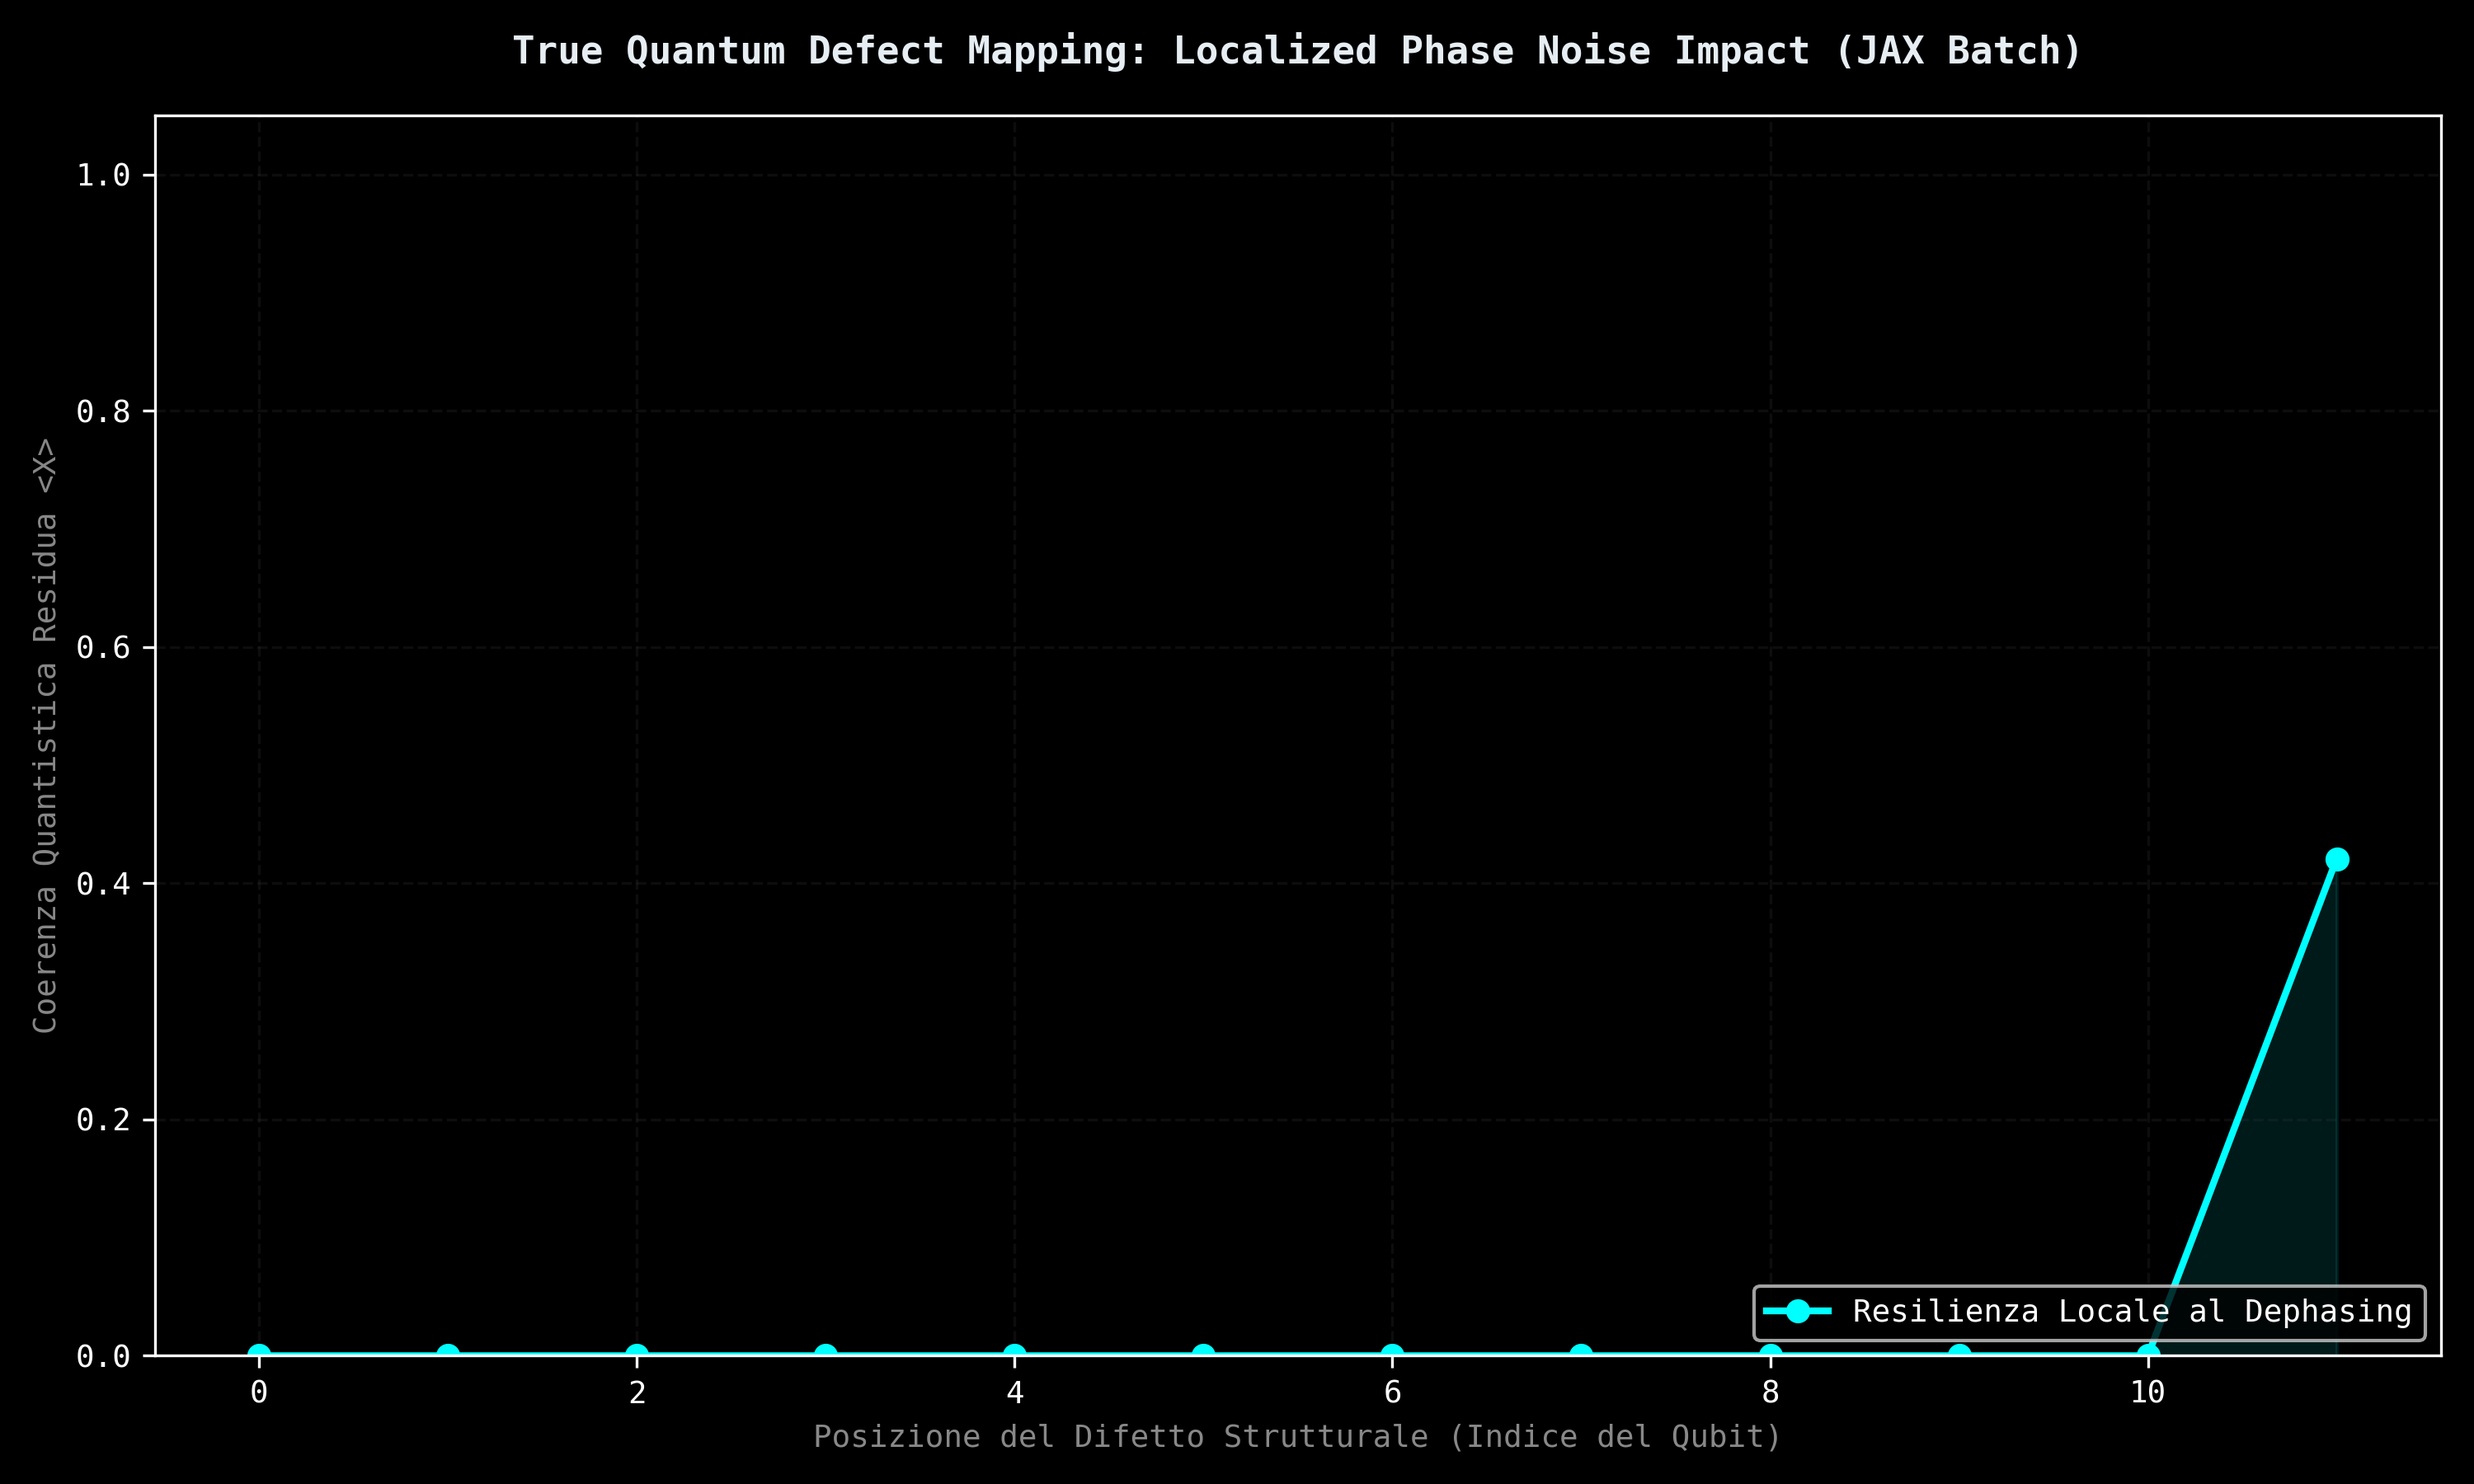
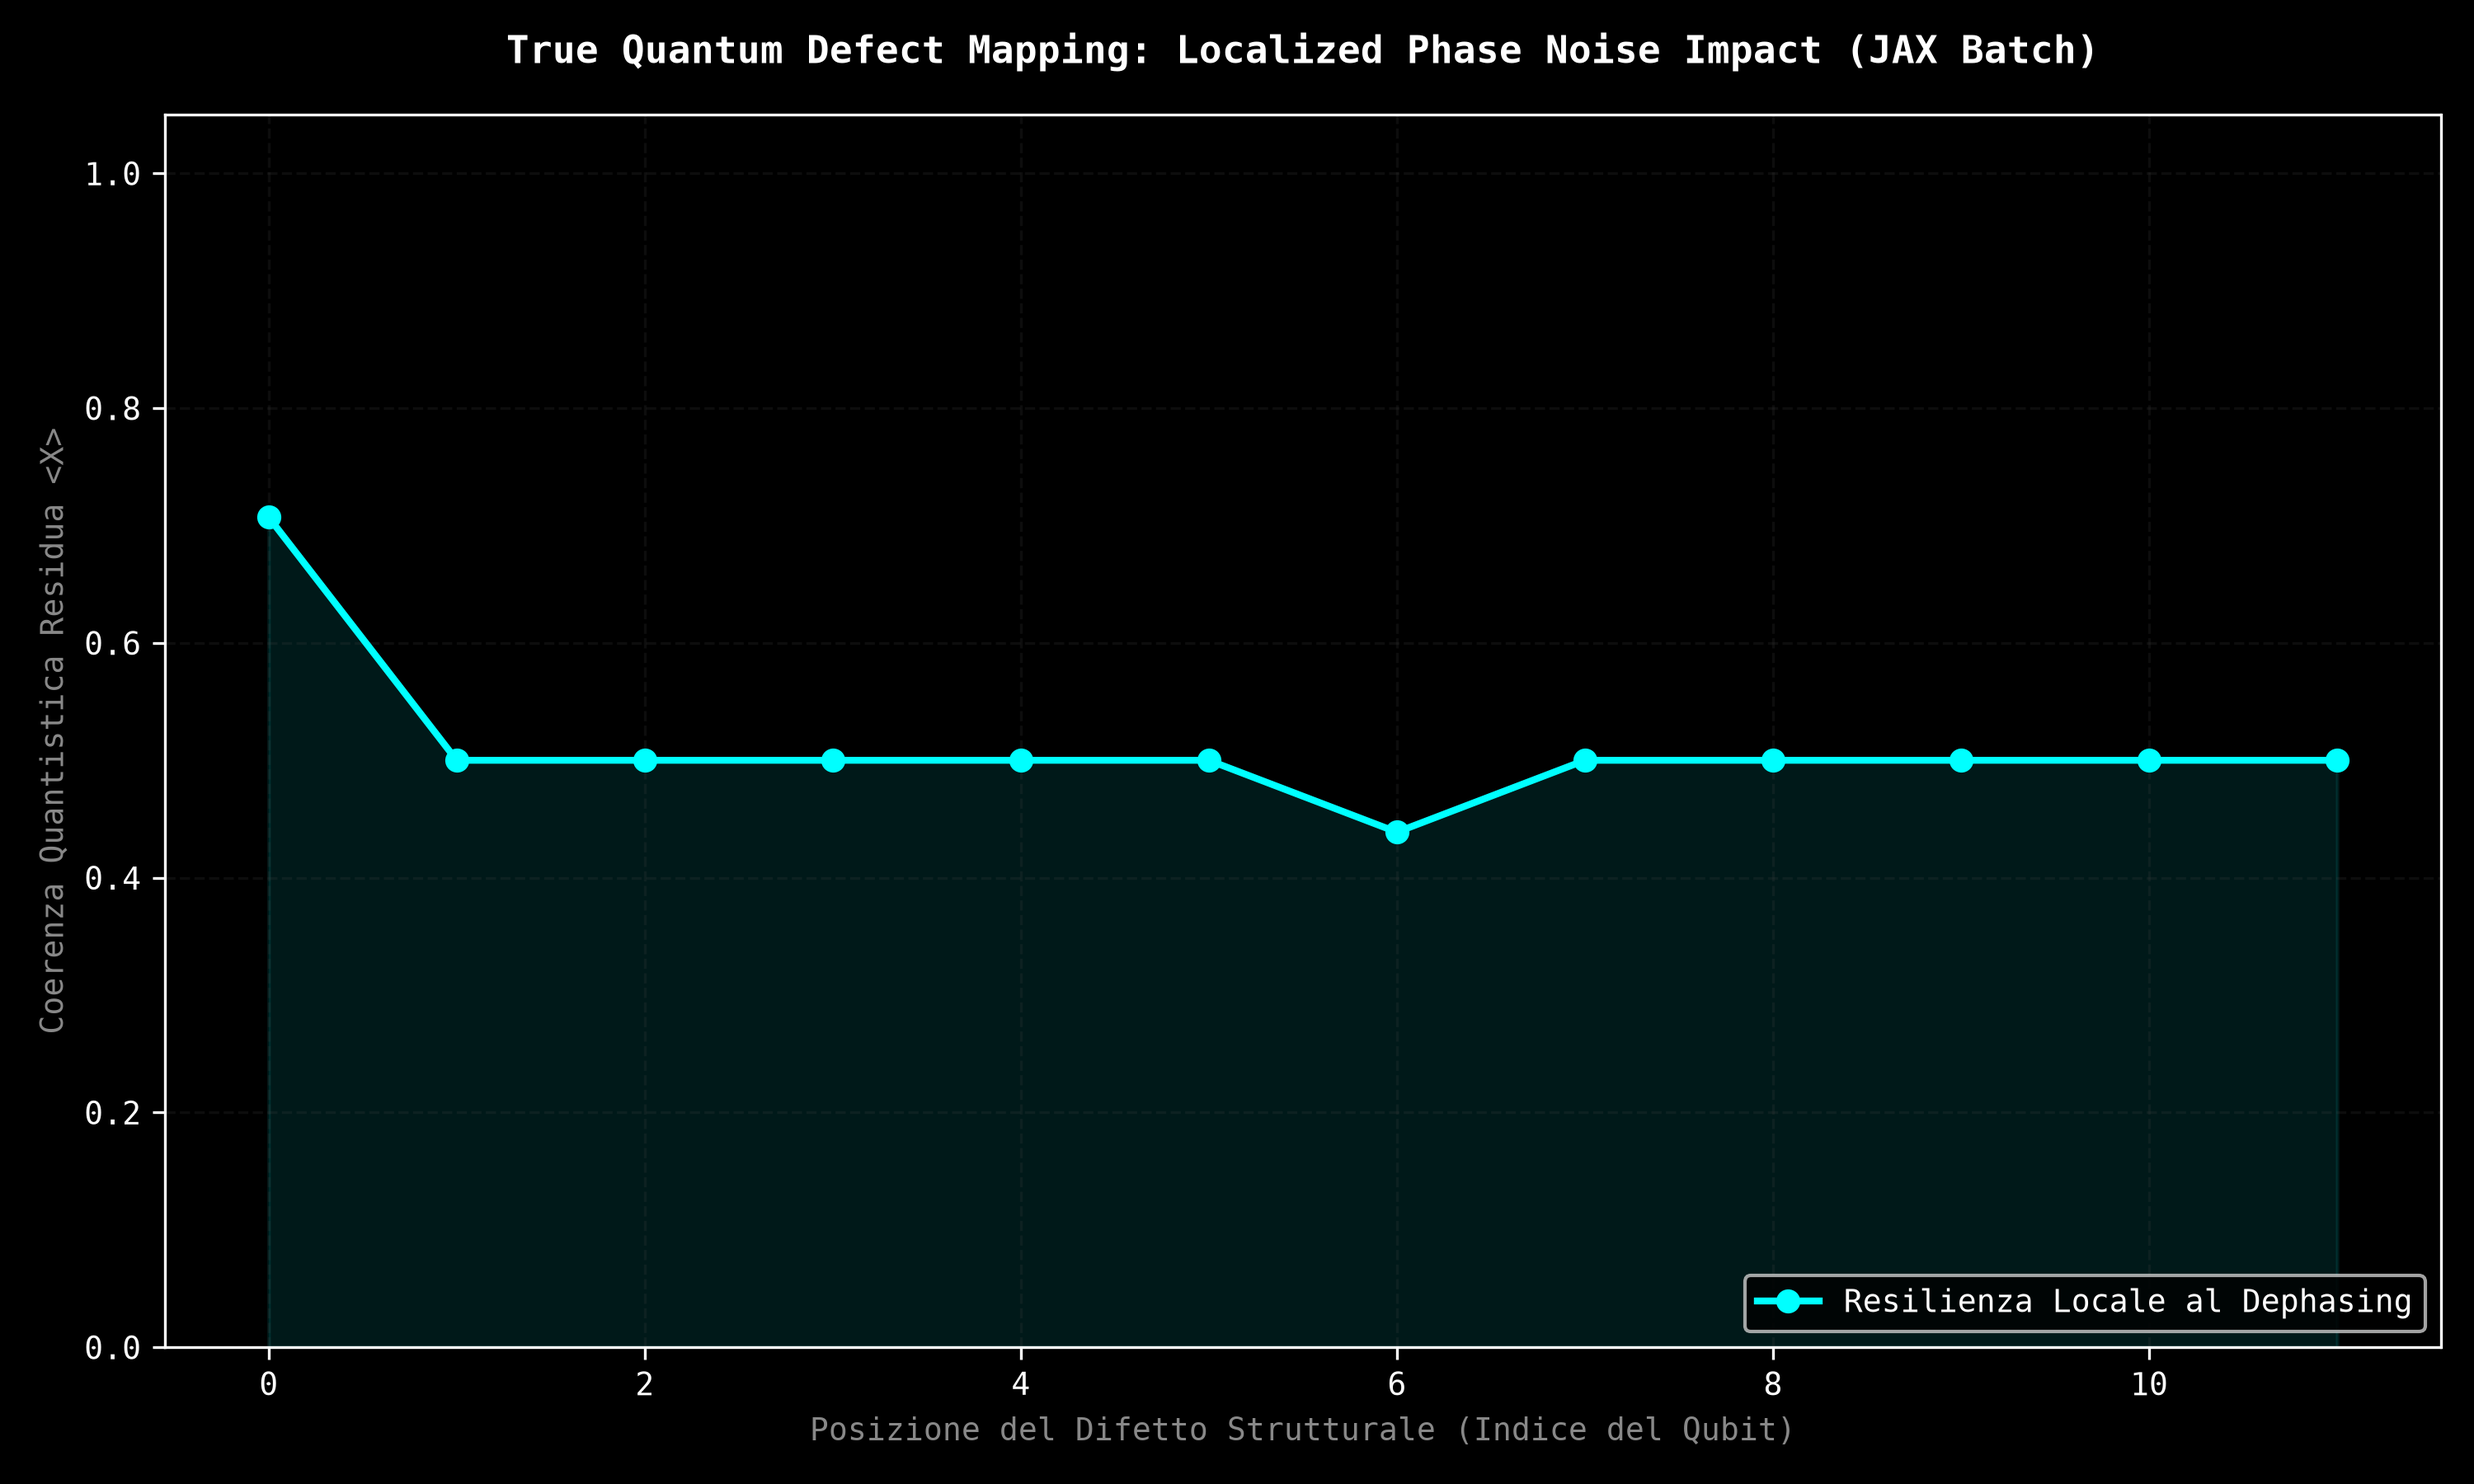
fix: quantum_defect_scanner.py fed run_parametric_batch_jit the wrong parameter columns
run_parametric_batch_jit treats every rotation gate (rx/ry/rz/p) as a
positional parameter slot, even when base_circuit passes a literal float
instead of a string placeholder -- the literal is silently discarded.
The scanner assumed RY(pi/4) stayed fixed while only RZ("batch_param_q")
varied, so the RZ columns actually landed on the RY slots and the true
RZ values ran out of bounds (JAX clips silently instead of raising).

Fixed by passing all 2*N_Q slots explicitly (constant RY columns +
varying RZ columns). Added tests/test_quantum_defect_scanner.py,
cross-checking the batch output against an independent single-circuit
run_circuit_jit_beast_mode reference. Regenerated mappa_difetti_silicio.csv/.png
with the corrected physics.

diff --git a/tests/test_quantum_defect_scanner.py b/tests/test_quantum_defect_scanner.py
@@ -1,0 +1,69 @@
+"""
+run_parametric_batch_jit positional-slot contract — regression guard
+----------------------------------------------------------------------
+Found while auditing the repo against dense-evolution 8.1.21: every
+rotation gate (rx/ry/rz/p) in base_circuit consumes a parameter_batch
+column in order of appearance, even when given a literal float instead
+of a string placeholder — the literal is silently discarded. This bit
+quantum_defect_scanner.py, which assumed RY(pi/4) literals stayed fixed
+while only the RZ("batch_param_q") gates varied; the RZ columns actually
+landed on the RY slots and ran out of bounds (JAX silently clips).
+
+1 test, mirrors quantum_defect_scanner.py's exact circuit shape at a
+small N_Q, cross-checked against an independent single-circuit reference
+via run_circuit_jit_beast_mode (ground truth, not the same code path).
+"""
+
+import numpy as np
+import jax
+import jax.numpy as jnp
+import dense_evolution as de
+
+jax.config.update("jax_enable_x64", True)
+
+N_Q = 4
+RY_ANGLE = np.pi / 4
+ATOL = 1e-10
+
+
+def _build_base_ops():
+    ops = [['ry', q, float(RY_ANGLE)] for q in range(N_Q)]
+    ops += [['rz', q, f"batch_param_{q}"] for q in range(N_Q)]
+    ops += [['cx', q, q + 1] for q in range(N_Q - 1)]
+    return ops
+
+
+def _reference_statevector(rz_angles: np.ndarray) -> np.ndarray:
+    """Independent ground truth: single-circuit run with literal RZ angles."""
+    ops = [['ry', q, float(RY_ANGLE)] for q in range(N_Q)]
+    ops += [['rz', q, float(rz_angles[q])] for q in range(N_Q)]
+    ops += [['cx', q, q + 1] for q in range(N_Q - 1)]
+    sim = de.DenseSVSimulator(n_qubits=N_Q, use_gpu=False, use_float32=False)
+    sim.set_initial_state()
+    sim.run_circuit_jit_beast_mode(ops)
+    return np.asarray(sim.get_statevector())
+
+
+def test_batch_positional_slots_ry_fixed_rz_varying():
+    """Every row of parameter_batch must fill ALL 2*N_Q rotation slots
+    (N_Q constant RY columns + N_Q varying RZ columns) — not just the
+    ones written as string placeholders in base_circuit."""
+    sim = de.DenseSVSimulator(n_qubits=N_Q, use_gpu=False, use_float32=False)
+    base_ops = _build_base_ops()
+
+    grid = np.zeros((N_Q, 2 * N_Q), dtype=np.float64)
+    grid[:, :N_Q] = RY_ANGLE
+    for q in range(N_Q):
+        grid[q, N_Q + q] = 0.5
+
+    batch = sim.run_parametric_batch_jit(base_ops, jnp.array(grid, dtype=jnp.float64))
+    assert batch.shape == (N_Q, 1 << N_Q)
+
+    for row in range(N_Q):
+        rz_angles = np.zeros(N_Q)
+        rz_angles[row] = 0.5
+        expected = _reference_statevector(rz_angles)
+        got = np.asarray(batch[row])
+        assert np.max(np.abs(got - expected)) < ATOL, (
+            f"row {row}: batch output diverges from independent single-circuit reference"
+        )

diff --git a/quantum_defect_scanner.py b/quantum_defect_scanner.py
@@ -26,9 +26,16 @@ for q in range(N_Q):
 for q in range(N_Q - 1):
     base_ops.append(['cx', q, q + 1])  
 
-griglia_parametri = np.zeros((N_Q, N_Q), dtype=np.float64)
+# run_parametric_batch_jit tratta OGNI gate di rotazione (rx/ry/rz/p) come
+# uno slot parametrico preso in ordine posizionale da parameter_batch, anche
+# quando l'argomento passato a base_ops e' un float letterale — il valore
+# letterale viene ignorato. Servono quindi 2*N_Q colonne: le prime N_Q per
+# gli RY(pi/4) (costanti, ripetute identiche su ogni riga), le successive
+# N_Q per gli RZ("batch_param_q") (il pattern diagonale voluto).
+griglia_parametri = np.zeros((N_Q, 2 * N_Q), dtype=np.float64)
+griglia_parametri[:, :N_Q] = np.pi / 4
 for q in range(N_Q):
-    griglia_parametri[q, q] = 0.5  
+    griglia_parametri[q, N_Q + q] = 0.5
 
 jax_batch = jnp.array(griglia_parametri, dtype=jnp.float64)
 
